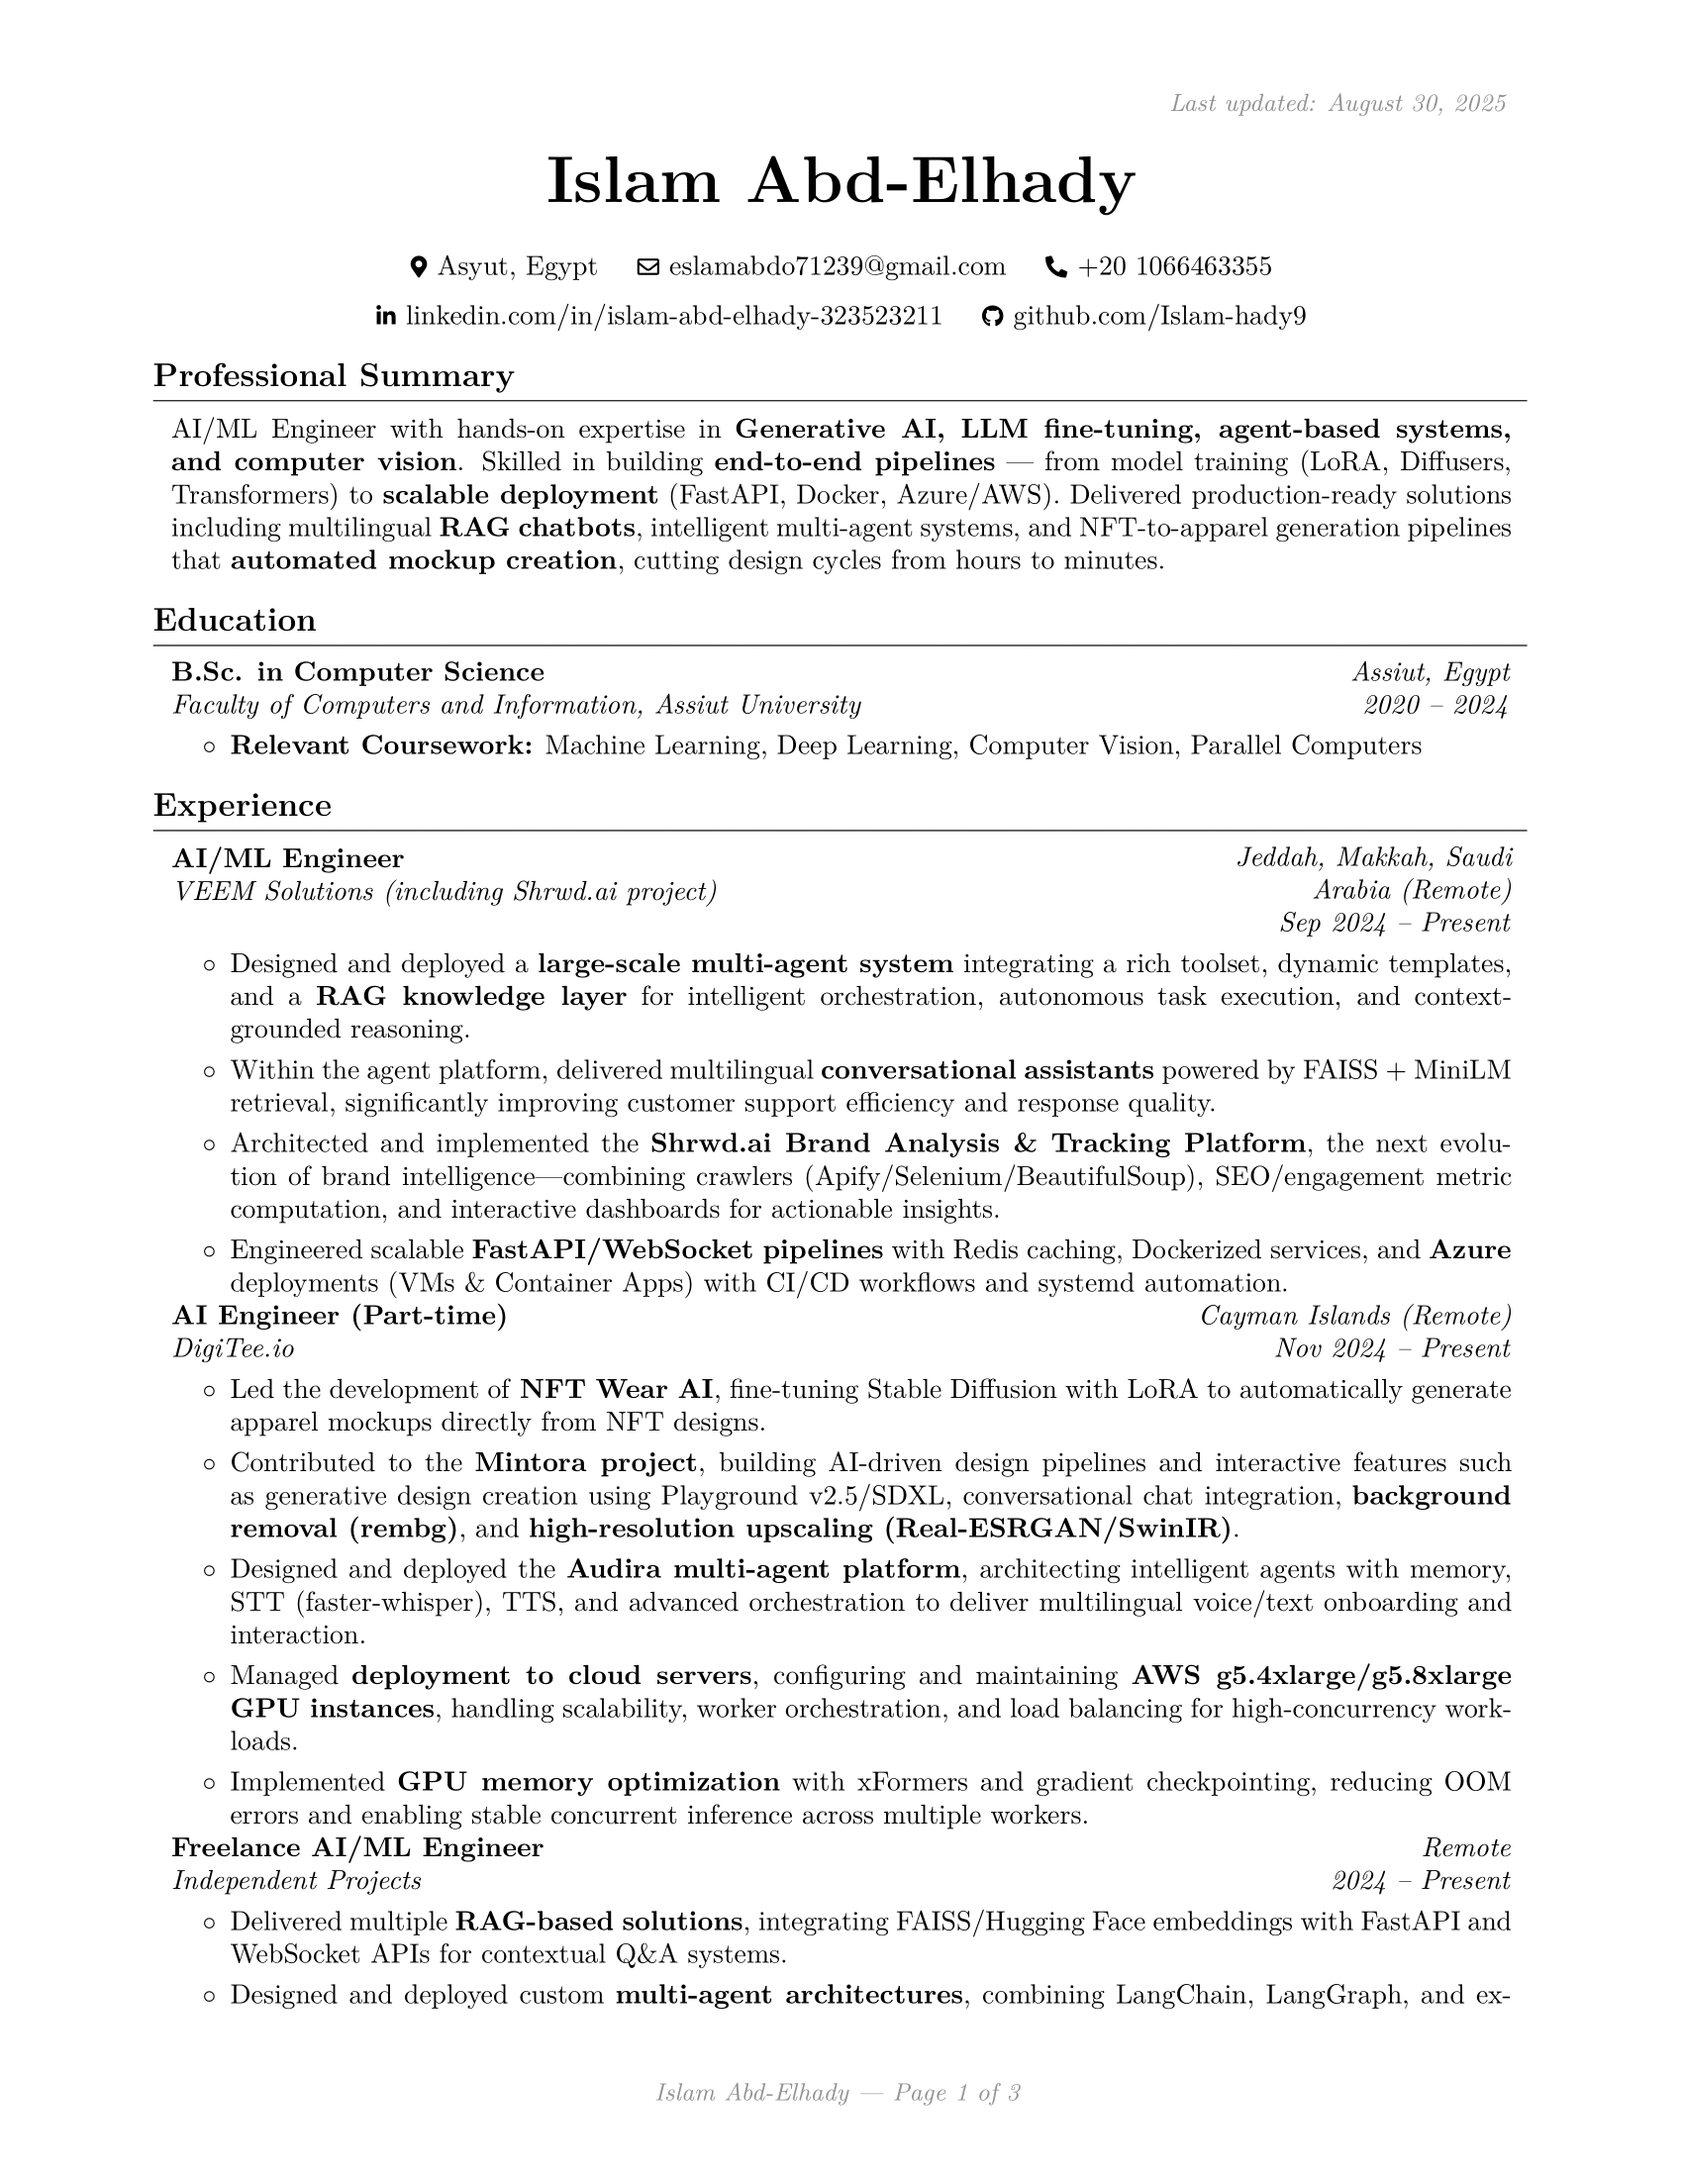
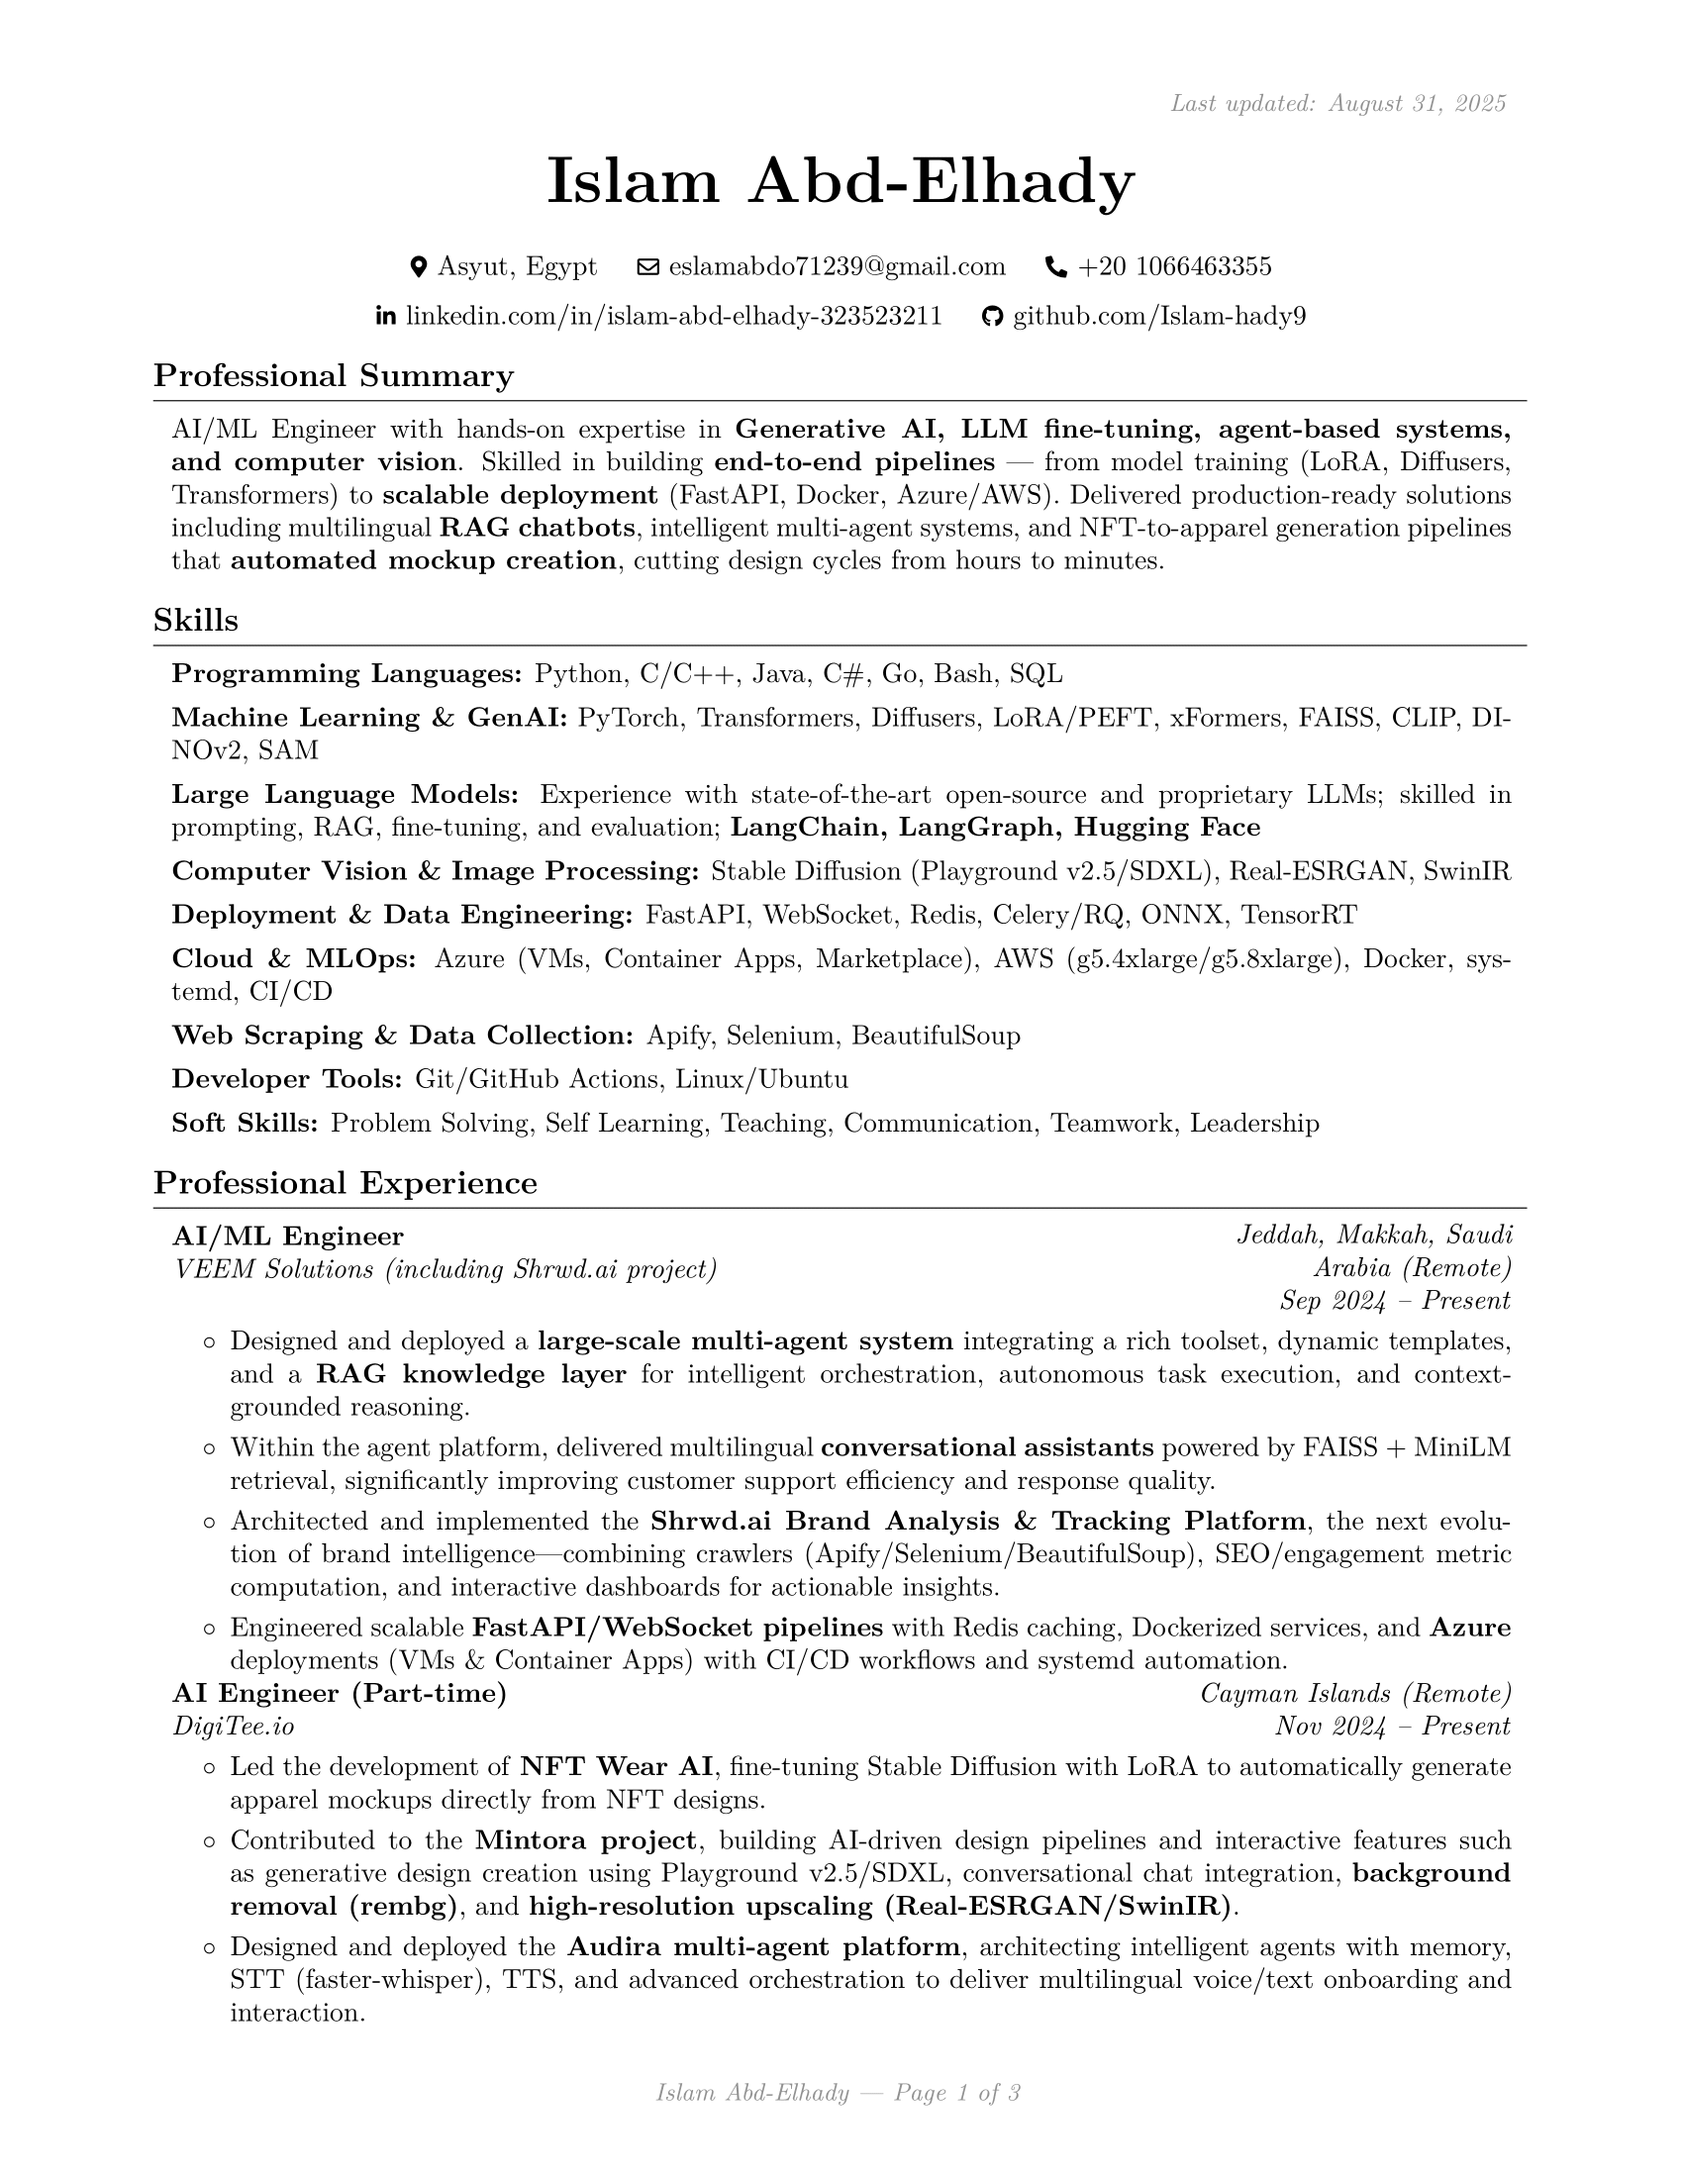
Change the order of CV sections and place the skills section early to better fit ATS criteria.

Changed region(s): [[0.0935, 0.2782, 0.9041, 0.9273]]

diff --git a/cv/Islam_Abdelhady_CV.tex b/cv/Islam_Abdelhady_CV.tex
@@ -177,27 +177,25 @@ AI/ML Engineer with hands-on expertise in \textbf{Generative AI, LLM fine-tuning
 \end{onecolentry}
 
 % =========================
-% EDUCATION
+% SKILLS MATRIX
 % =========================
-\section{Education}
-\begin{twocolentry}{
-  \textit{Assiut, Egypt} \\
-  \textit{2020 -- 2024}}
-  \textbf{B.Sc. in Computer Science} \\
-  \textit{Faculty of Computers and Information, Assiut University}
-\end{twocolentry}
-\vspace{0.10 cm}
+\section{Skills}
 \begin{onecolentry}
-  \begin{highlights}
-    \item \textbf{Relevant Coursework:} Machine Learning, Deep Learning, Computer Vision, Parallel Computers
-    % \item GPA: X.Y/4.0 (if you want to include it)
-  \end{highlights}
+  \textbf{Programming Languages:} Python, C/C++, Java, C\#, Go, Bash, SQL \\[4pt]
+  \textbf{Machine Learning \& GenAI:} PyTorch, Transformers, Diffusers, LoRA/PEFT, xFormers, FAISS, CLIP, DINOv2, SAM \\[4pt]
+  \textbf{Large Language Models:} Experience with state-of-the-art open-source and proprietary LLMs; skilled in prompting, RAG, fine-tuning, and evaluation; \textbf{LangChain, LangGraph, Hugging Face} \\[4pt]
+  \textbf{Computer Vision \& Image Processing:} Stable Diffusion (Playground v2.5/SDXL), Real-ESRGAN, SwinIR \\[4pt]
+  \textbf{Deployment \& Data Engineering:} FastAPI, WebSocket, Redis, Celery/RQ, ONNX, TensorRT \\[4pt]
+  \textbf{Cloud \& MLOps:} Azure (VMs, Container Apps, Marketplace), AWS (g5.4xlarge/g5.8xlarge), Docker, systemd, CI/CD \\[4pt]
+  \textbf{Web Scraping \& Data Collection:} Apify, Selenium, BeautifulSoup \\[4pt]
+  \textbf{Developer Tools:} Git/GitHub Actions, Linux/Ubuntu \\[4pt]
+  \textbf{Soft Skills:} Problem Solving, Self Learning, Teaching, Communication, Teamwork, Leadership
 \end{onecolentry}
 
 % =========================
 % EXPERIENCE (reverse chronological)
 % =========================
-\section{Experience}
+\section{Professional Experience}
 
 % ---- VEEM Solutions ----
 \begin{twocolentry}{
@@ -300,22 +298,6 @@ AI/ML Engineer with hands-on expertise in \textbf{Generative AI, LLM fine-tuning
 \end{onecolentry}
 
 % =========================
-% SKILLS MATRIX
-% =========================
-\section{Skills}
-\begin{onecolentry}
-  \textbf{Programming Languages:} Python, C/C++, Java, C\#, Go, Bash, SQL \\[4pt]
-  \textbf{Machine Learning \& GenAI:} PyTorch, Transformers, Diffusers, LoRA/PEFT, xFormers, FAISS, CLIP, DINOv2, SAM \\[4pt]
-  \textbf{Large Language Models:} Qwen 3, Llama 3, DeepSeek-R1, GPT-class; prompting, RAG, fine-tuning, evaluation; \textbf{LangChain, LangGraph, Hugging Face} \\[4pt]
-  \textbf{Computer Vision \& Image Processing:} Stable Diffusion (Playground v2.5/SDXL), Real-ESRGAN, SwinIR \\[4pt]
-  \textbf{Deployment \& Data Engineering:} FastAPI, WebSocket, Redis, Celery/RQ, ONNX, TensorRT \\[4pt]
-  \textbf{Cloud \& MLOps:} Azure (VMs, Container Apps, Marketplace), AWS (g5.4xlarge/g5.8xlarge), Docker, systemd, CI/CD \\[4pt]
-  \textbf{Web Scraping \& Data Collection:} Apify, Selenium, BeautifulSoup \\[4pt]
-  \textbf{Developer Tools:} Git/GitHub Actions, Linux/Ubuntu \\[4pt]
-  \textbf{Soft Skills:} Problem Solving, Self Learning, Teaching, Communication, Teamwork, Leadership
-\end{onecolentry}
-
-% =========================
 % SELECTED PROJECTS
 % =========================
 \section{Selected Projects}
@@ -384,6 +366,24 @@ AI/ML Engineer with hands-on expertise in \textbf{Generative AI, LLM fine-tuning
     \item Built custom CUDA kernels for forward and backward propagation, matrix multiplication, convolution, and memory management, without relying on high-level frameworks.
     \item Optimized GPU performance through \textbf{thread/block management, shared memory usage, and parallel reduction techniques}, achieving efficient large-scale parallel computation.
     \item Demonstrated strong foundations in \textbf{low-level GPU programming}, bridging the gap between algorithm design and hardware acceleration for AI workloads.
+  \end{highlights}
+\end{onecolentry}
+
+% =========================
+% EDUCATION
+% =========================
+\section{Education}
+\begin{twocolentry}{
+  \textit{Assiut, Egypt} \\
+  \textit{2020 -- 2024}}
+  \textbf{B.Sc. in Computer Science} \\
+  \textit{Faculty of Computers and Information, Assiut University}
+\end{twocolentry}
+\vspace{0.10 cm}
+\begin{onecolentry}
+  \begin{highlights}
+    \item \textbf{Relevant Coursework:} Machine Learning, Deep Learning, Computer Vision, Parallel Computers
+    % \item GPA: X.Y/4.0 (if you want to include it)
   \end{highlights}
 \end{onecolentry}
 
